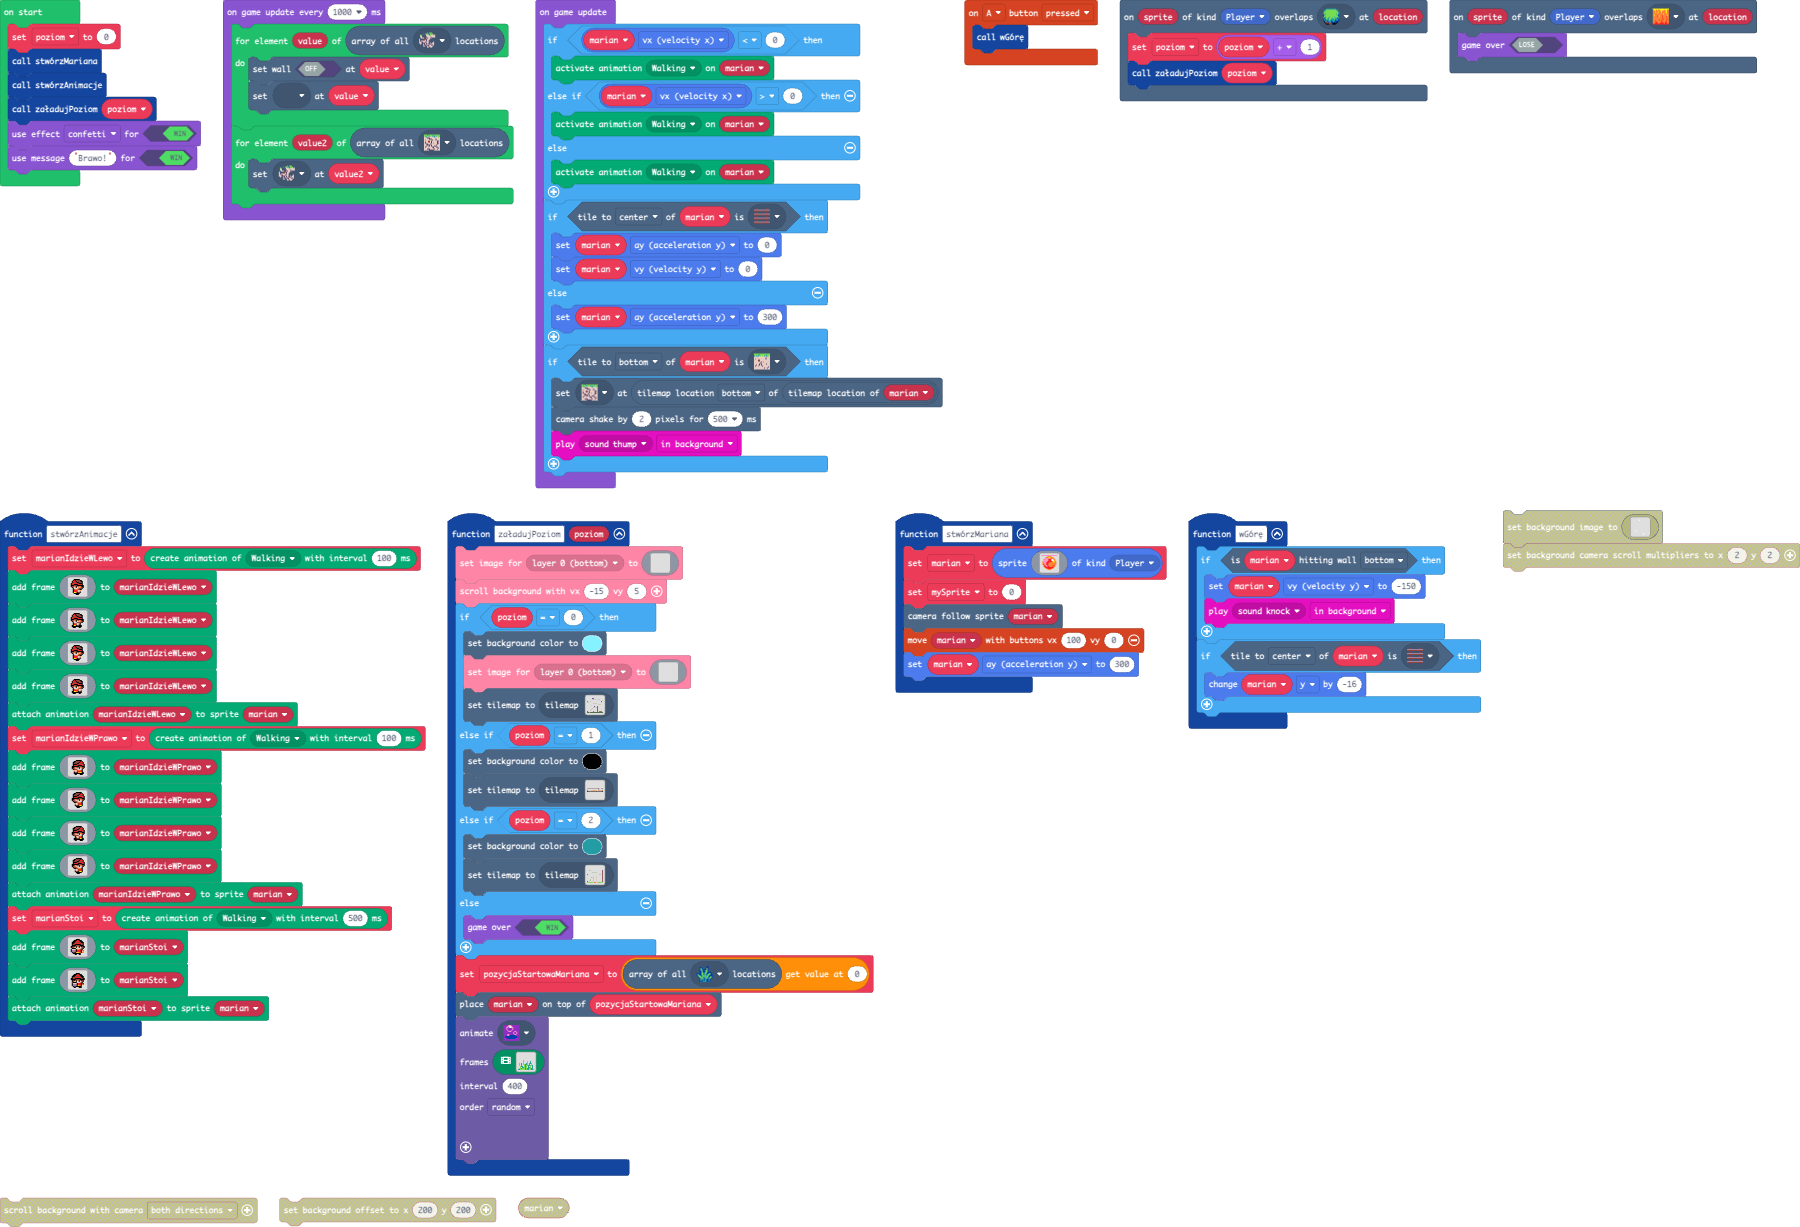
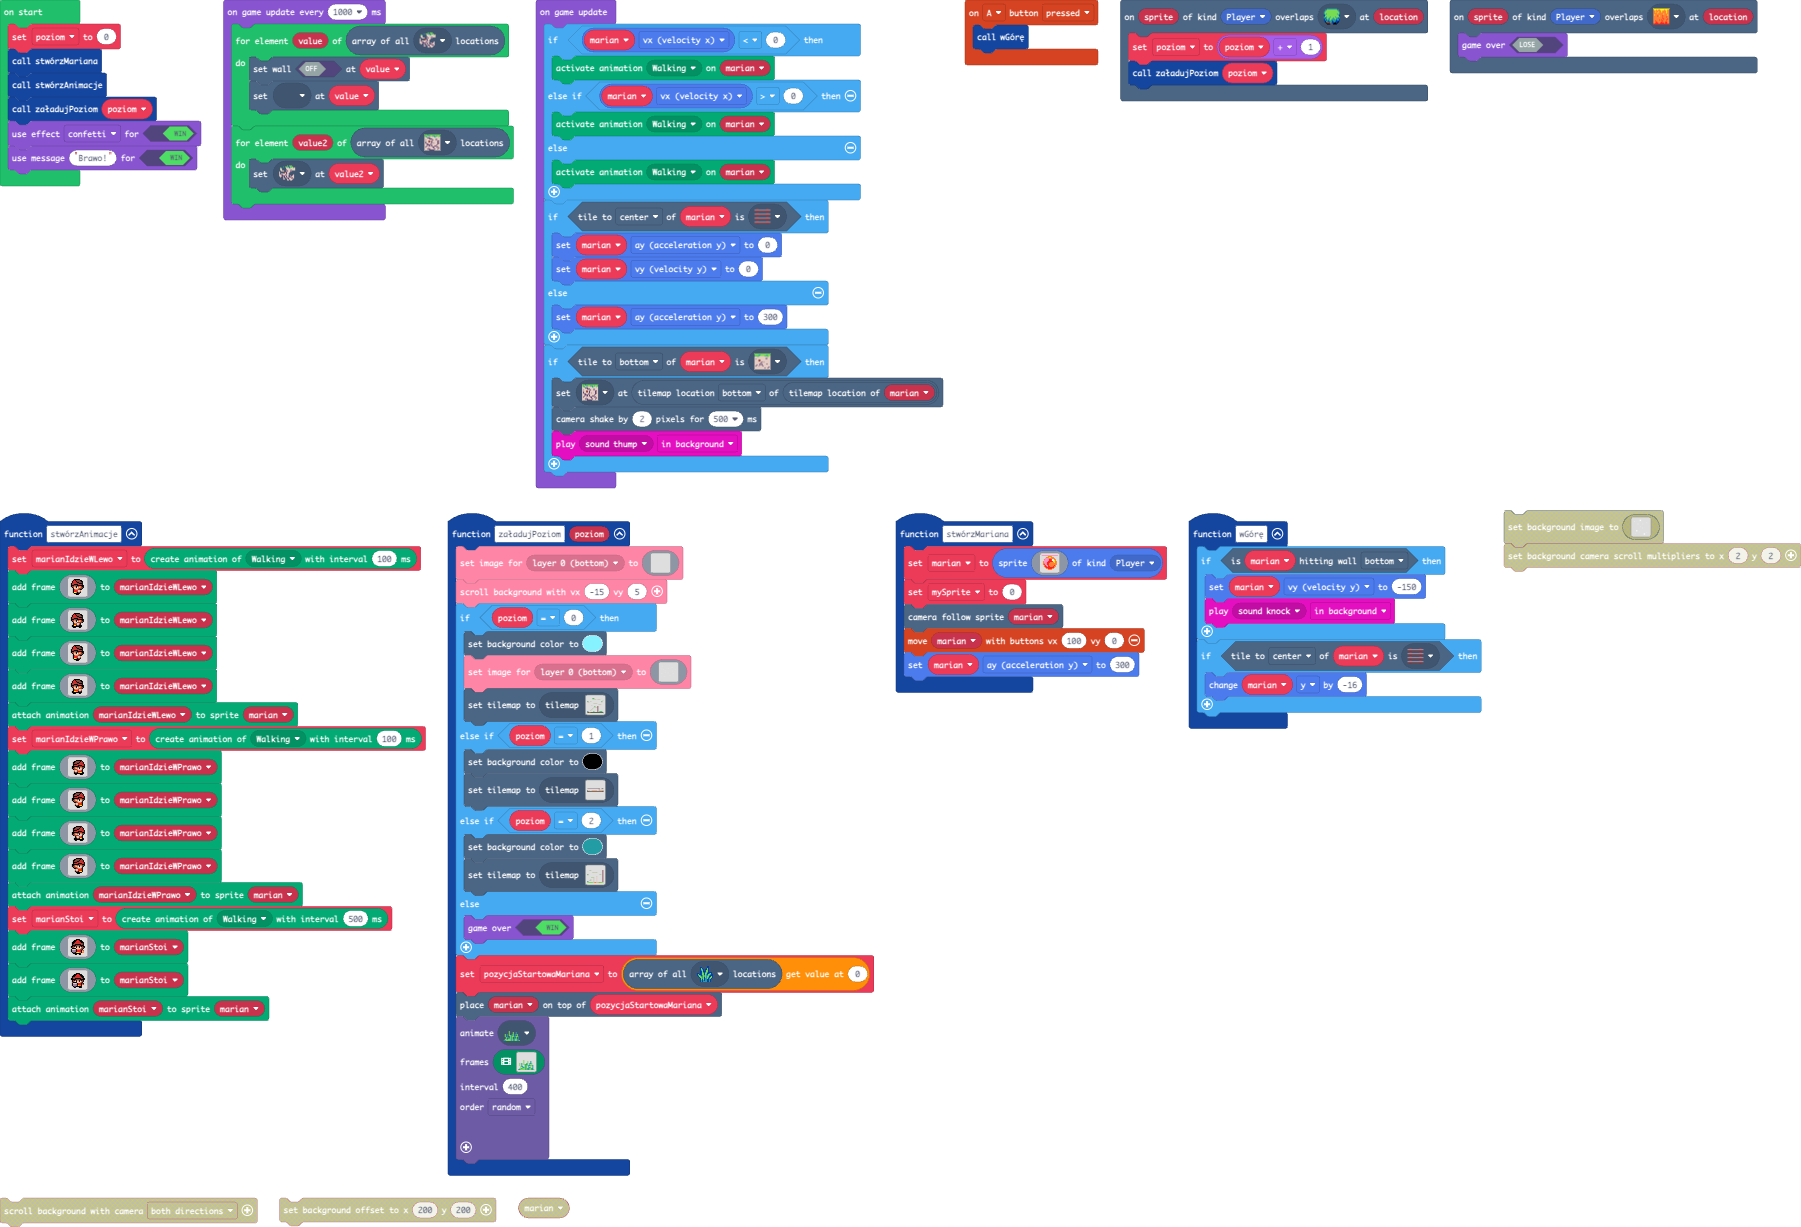
Update main.blocks, main.ts, tilemap.g.jres, tilemap.g.ts

diff --git a/tilemap.g.ts b/tilemap.g.ts
@@ -398,7 +398,7 @@ namespace myTiles {
 . . . . . . . . . . . . . . . . 
 `, [myTiles.transparency16], TileScale.Sixteen);
             case "level9":
-            case "level9":return tiles.createTilemap(hex`1000100000000000000000000000000000000000000000000008080000000000000000000000000000030303030003030300000000000000000000000000000000000003040000020000000000000000000008000303000000000000000000000000030000000000000003030303000000000000000000000000000000000003030300000000000003000000000000000000000000000000000000080000010000000000000000000000030303030100000000000000000000020000000001000000000000000000020000000000010000000000000000020000000000000100000000000500000000000900000001000909090007070607070707070707070707070707`, img`
+            case "level9":return tiles.createTilemap(hex`1000100000000000000000000000000000000000000000000008080000000000000000000000000000030303030003030300000000000000000000000000000000000003040000020000000000000000000008000303000000000000000000000000030000000000000003030303000000000000000000000000000000000003030300000000000003000000000000000000000000000000000000080000010000000000000000000000030303030100000000000000000000020000000001000000000000000000020000000000010000000000000000020000000000000100000000000500000000000800000001000808080007070607070707070707070707070707`, img`
 . . . . . . . . . . . . . . . . 
 . . . . . . . . . . . . . . . . 
 . . . . . 2 2 2 2 . 2 2 2 . . . 
@@ -415,7 +415,7 @@ namespace myTiles {
 . . . 2 . . . . . . . . . . . . 
 . . . . . . . . . . . . . . . . 
 2 2 . 2 2 2 2 2 2 2 2 2 2 2 2 2 
-`, [myTiles.transparency16,myTiles.tile2,myTiles.tile1,sprites.castle.tilePath2,sprites.builtin.forestTiles0,sprites.swamp.swampTile3,myTiles.tile6,myTiles.tile8,sprites.swamp.swampTile13,myTiles.tile9], TileScale.Sixteen);
+`, [myTiles.transparency16,myTiles.tile2,myTiles.tile1,sprites.castle.tilePath2,sprites.builtin.forestTiles0,sprites.swamp.swampTile3,myTiles.tile6,myTiles.tile8,myTiles.tile9], TileScale.Sixteen);
         }
         return null;
     })

diff --git a/main.ts b/main.ts
@@ -370,7 +370,7 @@ function załadujPoziom (poziom: number) {
     pozycjaStartowaMariana = tiles.getTilesByType(sprites.swamp.swampTile3)[0]
     tiles.placeOnTile(marian, pozycjaStartowaMariana)
     tilesExtra.runTileAnimation(
-    sprites.swamp.swampTile13,
+    assets.tile`myTile7`,
     assets.animation`aniGrass0`,
     400,
     TileAnimationOrder.Random
